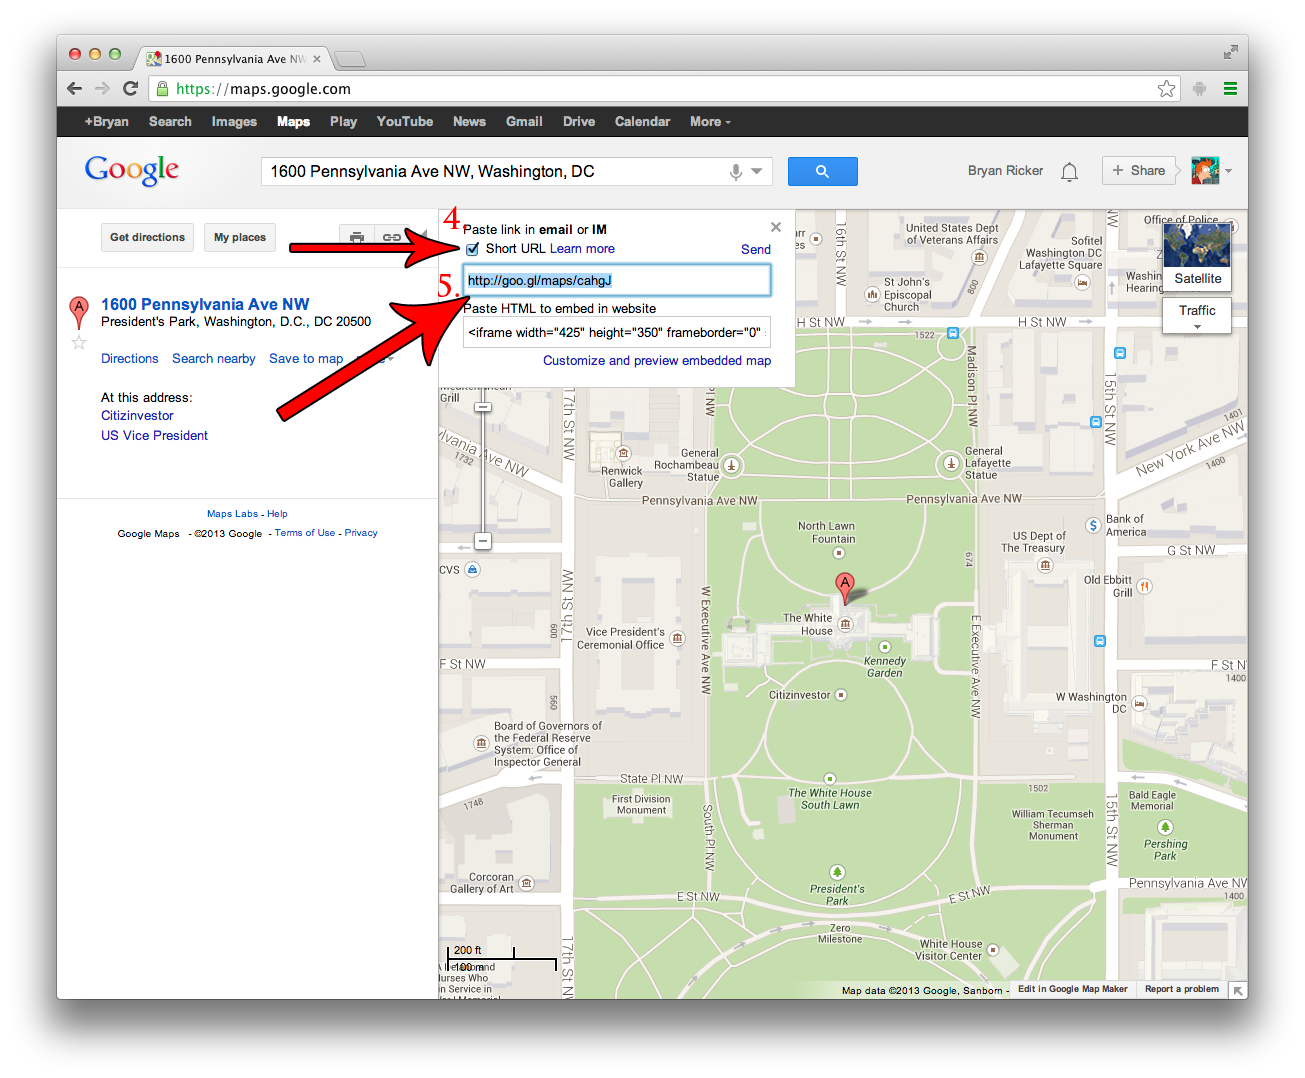
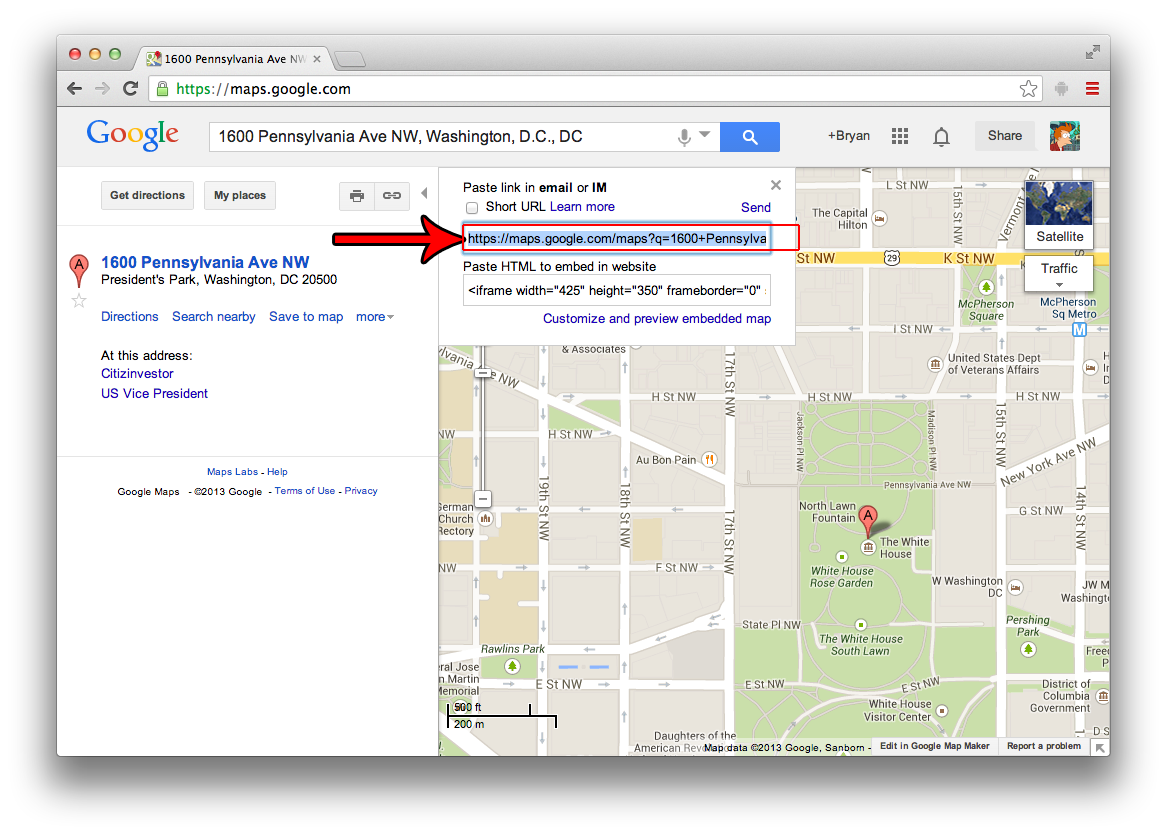
Update instructions for Google Maps

diff --git a/services/google-maps/README.md b/services/google-maps/README.md
@@ -4,9 +4,8 @@
 2. Type in the address/location you want to embed.
 3. Click the LINK icon:  
 ![Google Maps 1](images/google-maps1.png)
-4. A small pop-up will appear. Check the "Short URL" checkbox.
-5. Use the provided URL as the oEmbed URL.
+4. A small pop-up will appear. Use the provided URL as the oEmbed URL.
 
-The correct URL for the following map is `http://goo.gl/maps/cahgJ`.
+The correct URL for the following map is `https://maps.google.com/maps?q=1600+Pennsylvania+Ave+NW,+Washington,+D.C.,+DC&hl=en&ll=38.899082,-77.038493&spn=0.009869,0.01442&sll=37.269174,-119.306607&sspn=12.963384,18.808594&oq=1600+Pen&hnear=1600+Pennsylvania+Ave+NW,+Washington,+District+of+Columbia+20500&t=m&z=16`.
 
 ![Google Maps 2](images/google-maps2.png)
